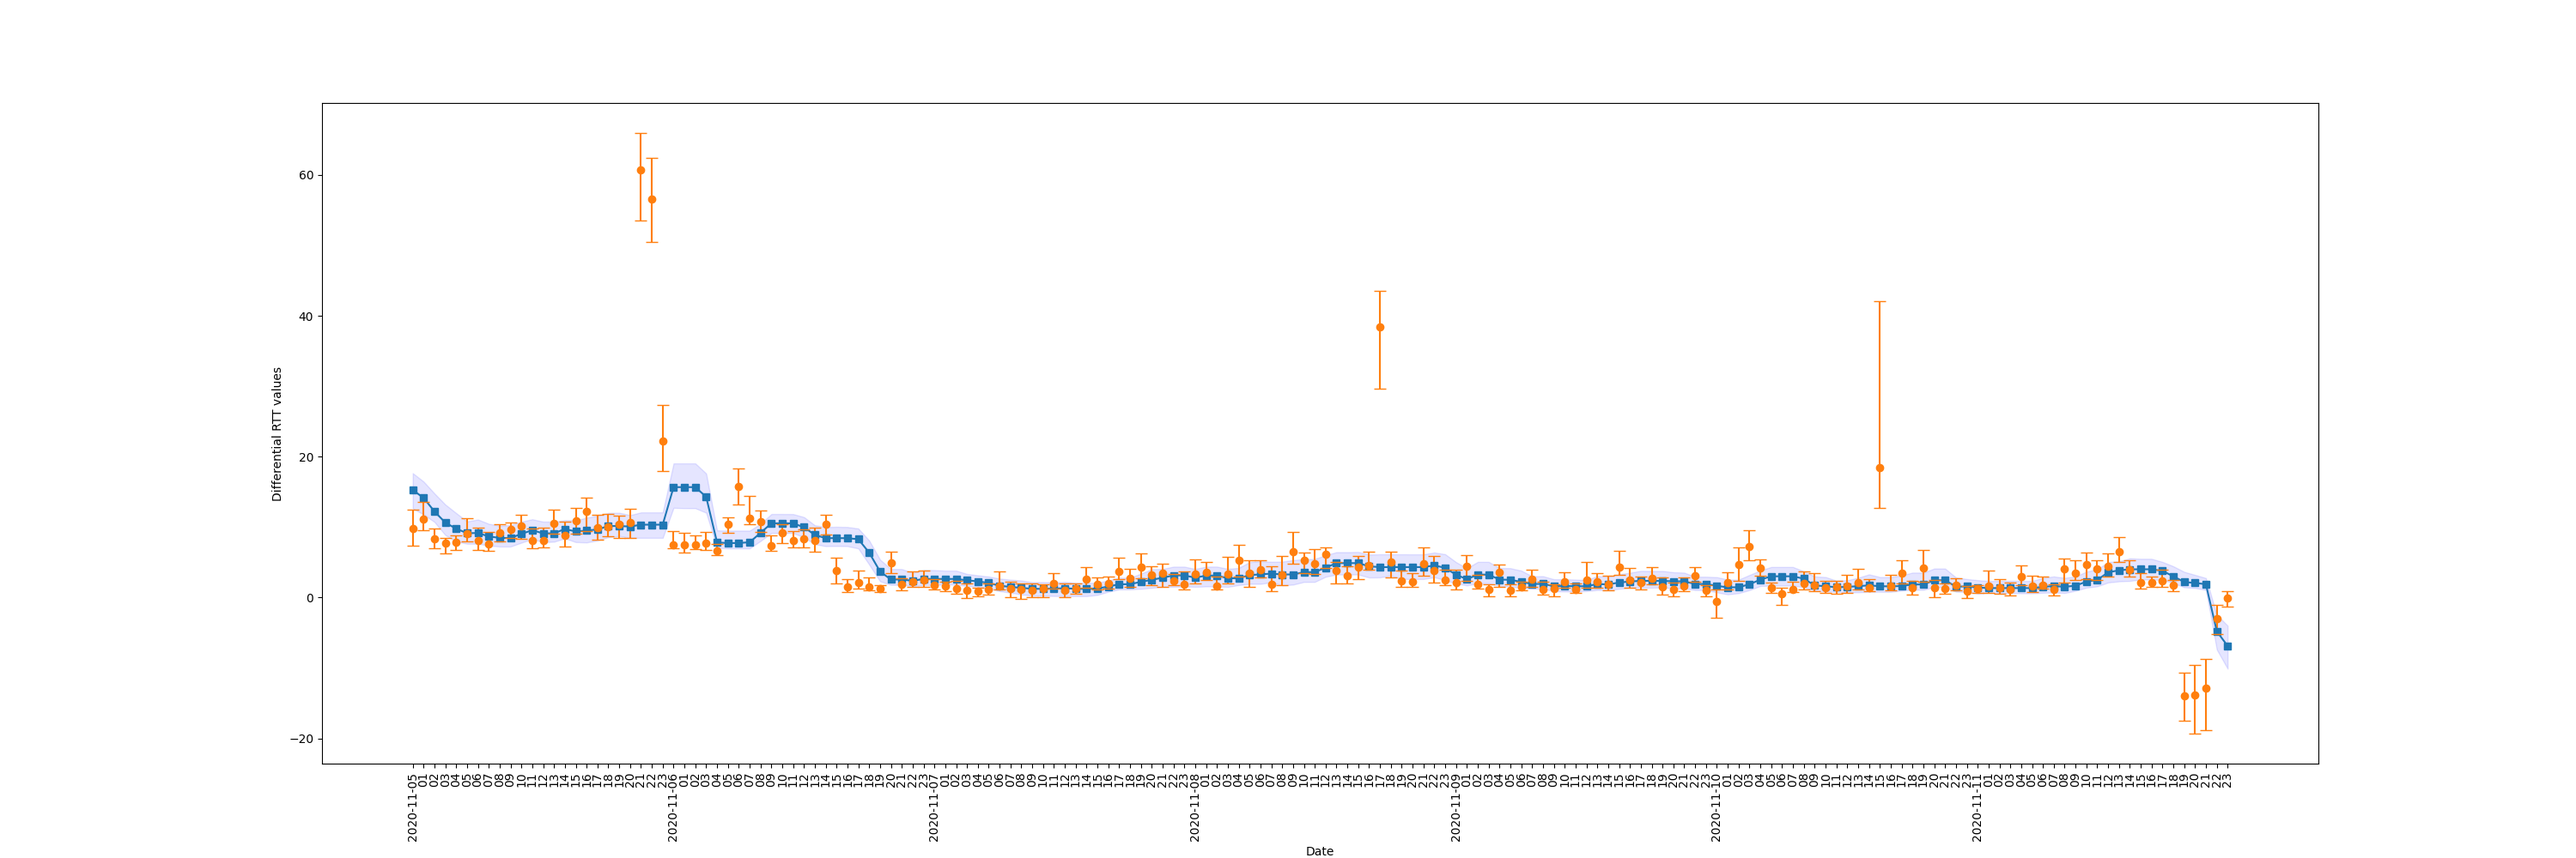
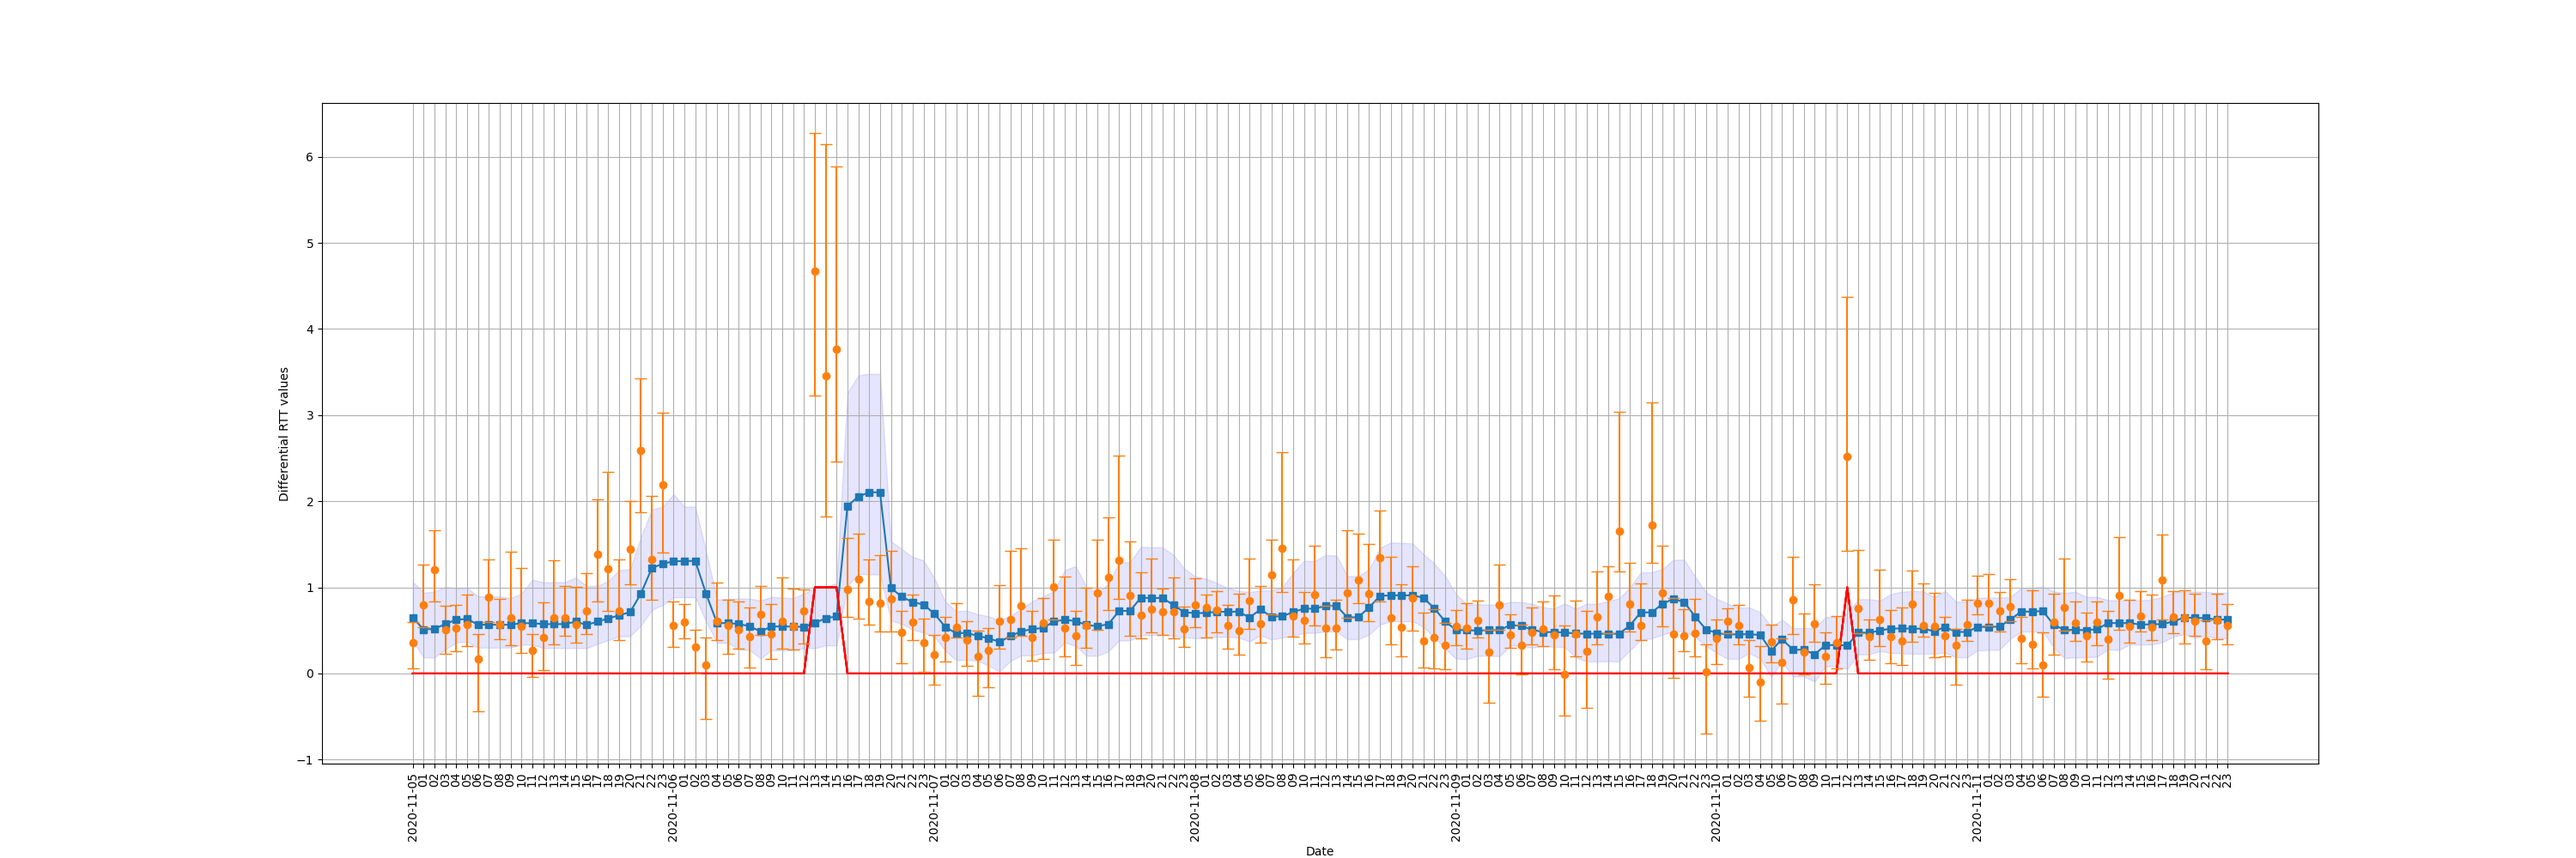
Mark alarms in RTT graphs Co-authored-by: vargh <vargh@kth.se> Co-authored-by: yulianti <yulianti@kth.se>

Changed region(s): [[0.155, 0.155, 0.868, 0.868], [0.093, 0.527, 0.124, 0.558], [0.093, 0.434, 0.124, 0.465]]

diff --git a/phase3_scripts/rtt_monitoring/rtt_initial_ref_sw_bk.py b/phase3_scripts/rtt_monitoring/rtt_initial_ref_sw_bk.py
@@ -108,12 +108,6 @@ initial_ref_values = dict.fromkeys(link_dict.keys())
 for key, val in link_dict.items():
     lb_array = link_dict[key]["lower_bd"]
     ub_array = link_dict[key]["upper_bd"]
-    '''
-    for j in range(0, (len(ub_array)-1)):
-            diff_array1.append(ub_array[j+1] - lb_array[j])
-            #diff_array2.append(ub_array[j] - lb_array[j+1])
-             #currnt_lb - ref_ub or ref_lb - curr_ub
-    '''
     lb_array_1, lb_array_2 = np.split(link_dict[key]["lower_bd"], [18])
     median_array_1, median_array_2 = np.split(link_dict[key]["median"], [18])
     ub_array_1, ub_array_2 = np.split(link_dict[key]["upper_bd"], [18])
@@ -121,7 +115,7 @@ for key, val in link_dict.items():
         "lower_bd" : round((np.median(lb_array_1)*0.1 + np.median(lb_array_2)*0.9),5),
         "median" : round((np.median(median_array_1)*0.1 + np.median(median_array_2)*0.9),5),
         "upper_bd" : round((np.median(ub_array_1)*0.1 + np.median(ub_array_2)*0.9),5),
-        "diff"     : round(np.mean(ub_array) - np.mean(lb_array), 5)
+        "diff"     : round(np.median(ub_array) - np.median(lb_array), 5)
     }
 
 output_file.write(ujson.dumps(initial_ref_values))
